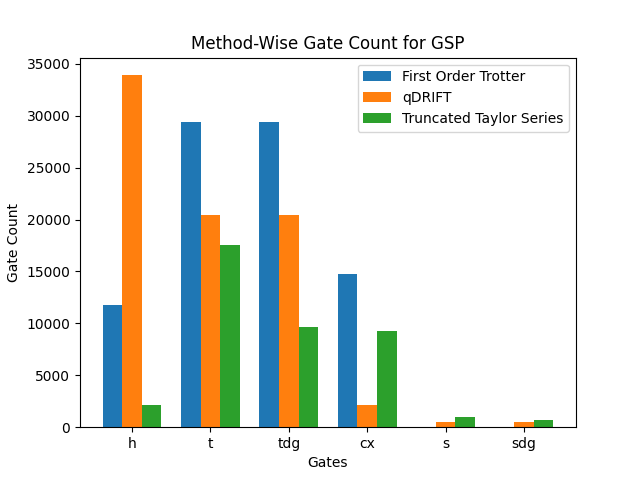
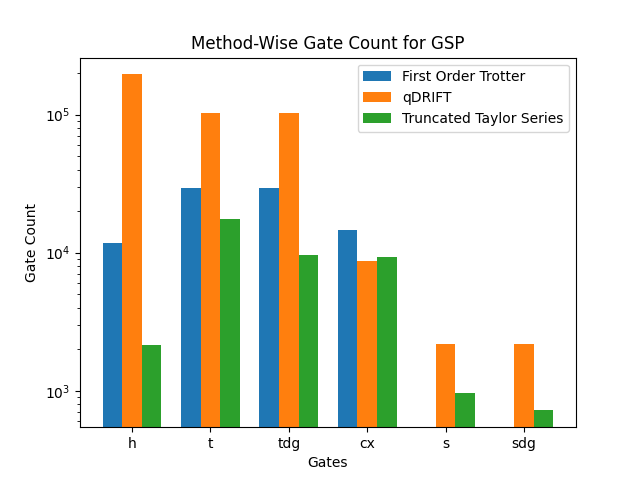
log depth and qdrift fix

diff --git a/ising/benchmark/molecule/plot_all_gates_fixed.py b/ising/benchmark/molecule/plot_all_gates_fixed.py
@@ -19,6 +19,7 @@ def get_gate_count_gsp(molecule: str):
 
 
 def plot_dictionaries(name: str, dicts: dict[str, dict[str, int]]):
+    fig, ax = plt.subplots()
     gates = list(dicts["qDRIFT"].keys())
 
     x = np.arange(len(gates))
@@ -27,14 +28,14 @@ def plot_dictionaries(name: str, dicts: dict[str, dict[str, int]]):
     bar_width = 0.25
 
     # Plot each dictionary
-    rects1 = plt.bar(
+    plt.bar(
         x - bar_width,
         dicts["First Order Trotter"].values(),
         bar_width,
         label="First Order Trotter",
     )
-    rects2 = plt.bar(x, dicts["qDRIFT"].values(), bar_width, label="qDRIFT")
-    rects3 = plt.bar(
+    plt.bar(x, dicts["qDRIFT"].values(), bar_width, label="qDRIFT")
+    plt.bar(
         x + bar_width,
         dicts["Truncated Taylor Series"].values(),
         bar_width,
@@ -45,6 +46,7 @@ def plot_dictionaries(name: str, dicts: dict[str, dict[str, int]]):
     plt.xlabel("Gates")
     plt.ylabel("Gate Count")
     plt.title("Method-Wise Gate Count for GSP")
+    ax.set_yscale("log")
     plt.xticks(x, gates)
     plt.legend()
 

diff --git a/ising/benchmark/gates/trotter.py b/ising/benchmark/gates/trotter.py
@@ -63,6 +63,7 @@ class TrotterBenchmark:
         """
         print("Running Trotter Gate Count")
         reps = trotter_reps_general(self.ham.sparse_repr, time, self.error)
+        print(f"time:{time} reps:{reps}")
 
         count = Counter()
         decomposer = Decomposer()

diff --git a/ising/benchmark/gates/qdrift.py b/ising/benchmark/gates/qdrift.py
@@ -65,6 +65,8 @@ class qDRIFTBenchmark:
         lambd = np.sum(np.abs(self.ham.sparse_repr.coeffs))
         reps = qdrift_count(lambd, time, self.error)
 
+        print(f"time:{time} lambda:{lambd} reps:{reps}")
+
         count = Counter()
         decomposer = Decomposer()
 

diff --git a/ising/hamiltonian/ising_one.py b/ising/hamiltonian/ising_one.py
@@ -43,7 +43,7 @@ def qdrift_count(lambd: float, time: float, eps: float) -> int:
     # while final > 10000:
     #     final = final // 10
 
-    final = int(final**0.8)
+    # final = int(final**0.8)
 
     final = max(final, 1)
     return final
